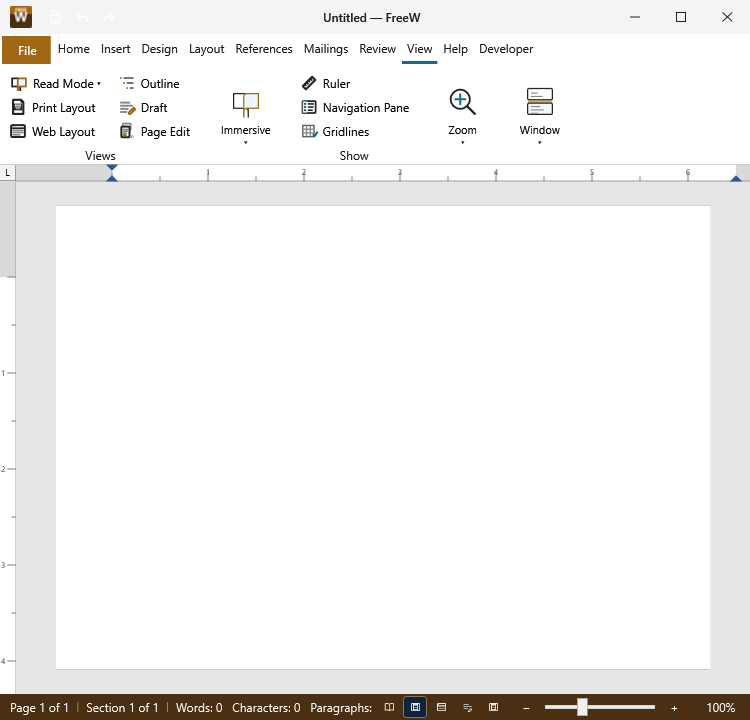
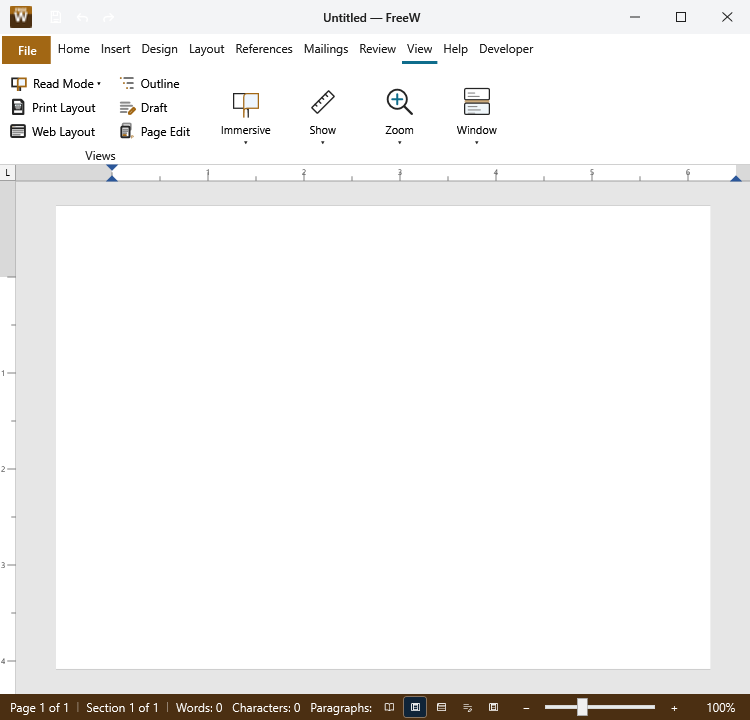
Align FreeW View compact groups at reference widths

Changed region(s): [[0.3987, 0.0917, 0.552, 0.2444], [0.5827, 0.1222, 0.6747, 0.2139], [0.7053, 0.1222, 0.736, 0.1833]]

diff --git a/freew/FreeW.Ribbon.Definitions/FreeWCanonicalRibbonTabs.cs b/freew/FreeW.Ribbon.Definitions/FreeWCanonicalRibbonTabs.cs
@@ -401,7 +401,9 @@ internal static partial class FreeWCanonicalRibbonTabs
 
             topology.Section(
                 "view.show",
-                tab => tab.Group("show", "Show", "S", 90, group =>
+                // Word folds these secondary view aids into one affordance at the 900- and
+                // 750-DIP reference widths, keeping the Window commands directly available.
+                tab => tab.Group("show", "Show", "S", 75, group =>
                     {
                         group.MediumToggle("freew.ruler", "Ruler", RibbonCommandIconKind.Ruler);
                         group.MediumToggle("freew.nav-pane", "Navigation Pane", RibbonCommandIconKind.NavigationPane);
@@ -446,10 +448,16 @@ internal static partial class FreeWCanonicalRibbonTabs
             topology.Section(
                 "view.window",
                 // At Word's 900-DIP View ribbon width, keep the Window command stack direct while
-                // Zoom yields its secondary presets first. The 750-DIP lane still overflows both
-                // groups naturally once their compact forms no longer fit.
+                // Zoom yields its secondary presets first. At 750 DIPs Word folds this entire
+                // stack into Window after the Show group has compacted.
                 tab => tab.Group("window", "Window", "N", 85, group =>
                     {
+                        group.Sizing(RibbonGroupSizing.Default with
+                        {
+                            // Reserve Word's two-column Window stack while it is direct. This keeps
+                            // 900 DIPs direct but makes the existing collapsed flyout win at 750.
+                            Hints = new RibbonWidthHints(300, 300, 300, 64),
+                        });
                         group.MediumToggle("freew.split-window", "Split", RibbonCommandIconKind.Scale);
                         group.Medium("freew.new-window", "New Window", RibbonCommandIconKind.Page);
                         group.Medium("freew.arrange-all", "Arrange All", RibbonCommandIconKind.Grid);

diff --git a/freew/FreeW.App.Host.Tests/RibbonShellBuilderTests.cs b/freew/FreeW.App.Host.Tests/RibbonShellBuilderTests.cs
@@ -206,6 +206,26 @@ public sealed class RibbonShellBuilderTests
     }
 
     [StaFact]
+    public void View_CompactPresentationFoldsWindowCommandsAt750Dips()
+    {
+        var view = FreeW.Ribbon.Definitions.FreeWRibbon
+            .Build(FreeW.Ribbon.Definitions.FreeWRibbonCapabilities.Wpf)
+            .FindTab("view")!;
+        var content = RibbonWpfRenderer.BuildTabContent(view, new Button());
+        var panel = FindLogicalChild<RibbonAdaptivePanel>(content)!;
+
+        content.Measure(new Size(750, 180));
+        content.Arrange(new Rect(0, 0, 750, 180));
+        content.UpdateLayout();
+
+        panel.Children
+            .OfType<RibbonGroupHost>()
+            .Single(group => group.GroupName == "Window")
+            .Collapsed.Should().BeTrue(
+                "Word folds the Window command stack into one flyout at the 750-DIP View ribbon reference width");
+    }
+
+    [StaFact]
     public void Insert_CommentStaysDirectAt750Dips()
     {
         var insert = FreeW.Ribbon.Definitions.FreeWRibbon
